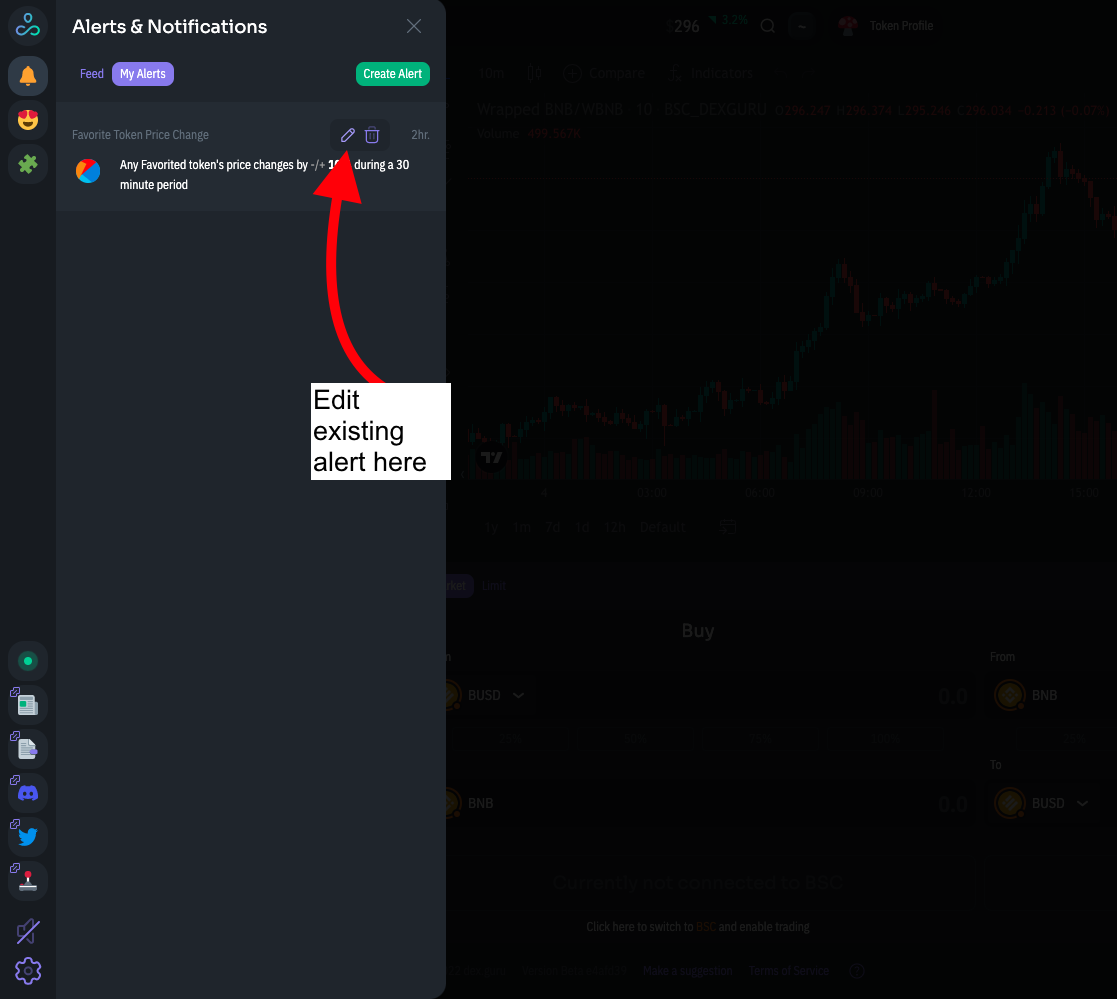
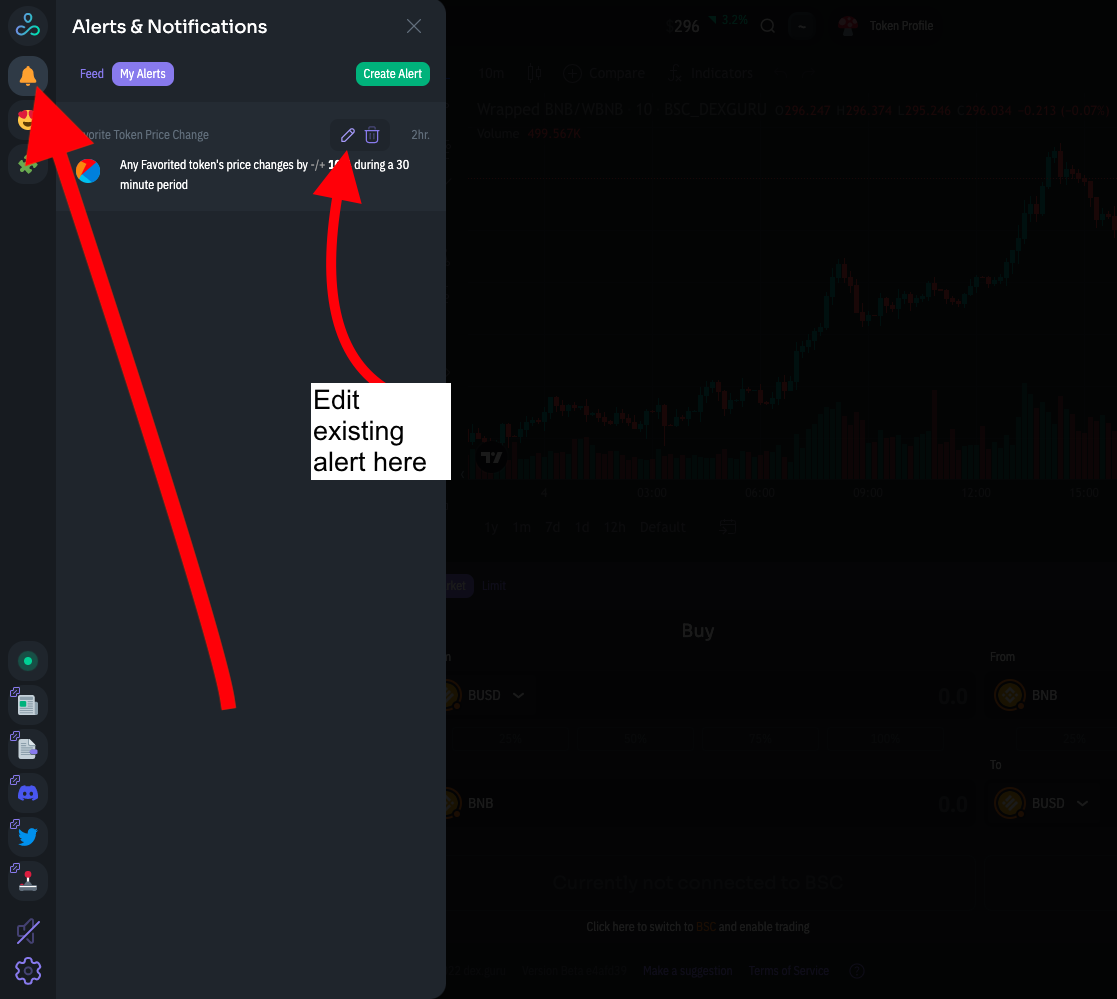
GitBook: [#293] No subject

Changed region(s): [[0.0, 0.0931, 0.2131, 0.7137]]

diff --git a/general/how-to/enable-price-alerts.md b/general/how-to/enable-price-alerts.md
@@ -4,13 +4,15 @@ description: DexGuru Telegram notifications help you stay on top of tokens’ pr
 
 # Enable Telegram Price Alerts
 
+Watch this [demo video](https://www.youtube.com/watch?v=PobSLoS2YRg\&t=526s) on how to enable Telegram notifications for token prices.&#x20;
+
 To enable notifications for a token, you need:&#x20;
 
 1. [Connect your web3 wallet.](enable-price-alerts.md#1.-connect-your-web3-wallet.)
 2. [Add tokens to your Favorites.](enable-price-alerts.md#2.-add-tokens-to-your-favorites.)
 3. [Go to Settings to connect the Telegram bot to your DexGuru account.](enable-price-alerts.md#3.-go-to-settings.)
-4. Go to Alerts & Notifications🔔 to create or edit(if you already have one) your alert.
-5. Make sure Telegram is set as a delivery channel and customize your price threshold.
+4. [Go to Alerts & Notifications🔔 to create or edit(if you already have one) your alert.](enable-price-alerts.md#4.-go-to-alerts-and-notifications-to-create-or-edit-if-you-already-have-one-your-alert.)
+5. [Make sure Telegram is set as a delivery channel and customize your price threshold.](enable-price-alerts.md#5.-make-sure-telegram-is-set-as-a-delivery-channel-and-customize-your-price-threshold.)
 6. [Save your changes.](enable-price-alerts.md#undefined)
 
 ### 1. **Connect your web3 wallet.**
@@ -38,7 +40,7 @@ Create a new alert if you do not have one.
 
 Edit an existing alert if you already have one.&#x20;
 
-<figure><img src="../../.gitbook/assets/Screen Shot 2022-10-04 at 5.27.13 PM.png" alt=""><figcaption></figcaption></figure>
+<figure><img src="../../.gitbook/assets/Screen Shot 2022-10-04 at 5.27.13 PM (1).png" alt=""><figcaption></figcaption></figure>
 
 ### **5.** Make sure Telegram is set as a delivery channel and customize your price threshold.
 
